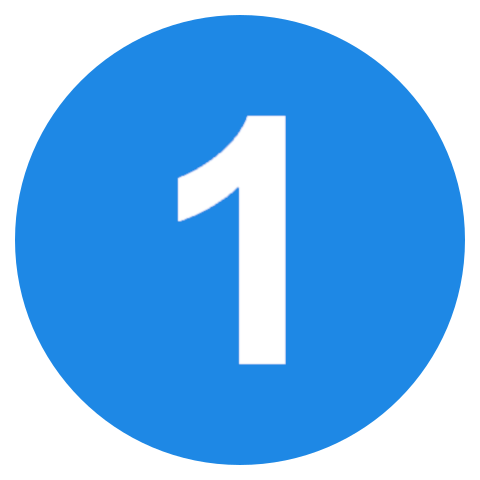
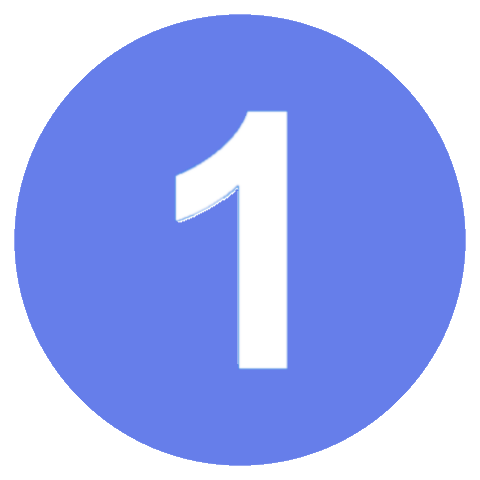
21.08.2022 Update interface and logout bug

diff --git a/flaskblog/static/home.css b/flaskblog/static/home.css
@@ -9,9 +9,11 @@ body
     font-family: sans-serif;
 }
 
+
 .rev-section
 {
     margin:auto;
+    margin-top: 1.75cm;
     padding: 0 1rem; /*1*/
     max-width: 1100px;
     text-align: center;
@@ -51,6 +53,7 @@ body
     margin: 1.75rem auto;
     width: 150px;
     height: 150px;
+    margin-bottom: 1.75cm;
 }
 
 img
@@ -86,16 +89,15 @@ img
 }
 
 .logoutBtn {
-  background-color: #0095ff;
+  background-color: #667eea;
   border: 1px solid transparent;
   border-radius: 3px;
-  box-shadow: rgba(255, 255, 255, .4) 0 1px 0 0 inset;
   box-sizing: border-box;
   color: #fff;
   cursor: pointer;
   display: inline-block;
   font-family: -apple-system,system-ui,"Times New Roman",sans-serif;
-  font-size: 13px;
+  font-size: 18px;
   font-weight: 400;
   line-height: 1.15385;
   margin: 0;
@@ -126,8 +128,8 @@ img
 }
 
 body {
-	background: linear-gradient(-45deg, #ad33ff, #23a6d5, #23d5ab);
-	background-size: 400% 400%;
+	background: linear-gradient(-45deg, #667eea, #23a6d5, #667eea);
+	background-size: 200% 300%;
 	animation: gradient 25s ease infinite;
 	height: 100vh;
 }
@@ -151,4 +153,57 @@ body {
 
 .action:hover {
   text-decoration: underline;
+}
+
+
+.button-53 {
+  background-color: #667eea;
+  border: 0 solid #FFF;
+  box-sizing: border-box;
+  color: #FFF;
+  display: flex;
+  font-family: ui-sans-serif,system-ui,-apple-system,system-ui,"Segoe UI",Roboto,"Helvetica Neue",Arial,"Noto Sans",sans-serif,"Apple Color Emoji","Segoe UI Emoji","Segoe UI Symbol","Noto Color Emoji";
+  font-size: 1rem;
+  font-weight: 700;
+  justify-content: center;
+  line-height: 1.75rem;
+  padding: .75rem 1.65rem;
+  position: relative;
+  text-align: center;
+  text-decoration: none #FFF solid;
+  text-decoration-thickness: auto;
+  width: 100%;
+  max-width: 460px;
+  position: relative;
+  cursor: pointer;
+  transform: rotate(-2deg);
+  user-select: none;
+  -webkit-user-select: none;
+  touch-action: manipulation;
+}
+
+.button-53:focus {
+  outline: 0;
+}
+
+.button-53:after {
+  content: '';
+  position: absolute;
+  border: 1px solid #FFF;
+  bottom: 4px;
+  left: 4px;
+  width: calc(100% - 1px);
+  height: calc(100% - 1px);
+}
+
+.button-53:hover:after {
+  bottom: 2px;
+  left: 2px;
+}
+
+@media (min-width: 768px) {
+  .button-53 {
+    padding: .75rem 3rem;
+    font-size: 1.25rem;
+  }
 }

diff --git a/flaskblog/templates/home.html b/flaskblog/templates/home.html
@@ -32,33 +32,30 @@
             <div class="head-task">
                 <img src="{{url_for('static', filename='images/1.png')}}" width="250px">
             </div>
-            <div class="body-task">
-                <div class="name-task"><a href="http://localhost:5000/forms" class="action">Complete forms</a></div>
-
-            </div>
+            <a href="http://localhost:5000/forms">
+                <button class="button-53" role="button">Complete forms</button>
+            </a>
         </div>
         <div class="task">
             <div class="head-task">
                 <img src="{{url_for('static', filename='images/2.png')}}" width="250px">
             </div>
-            <div class="body-task">
-                <div class="name-task"><a href="http://localhost:5000/modifydb" class="action">Modify in database</a></div>
-            </div>
+            <a href="http://localhost:5000/modifydb">
+                <button class="button-53" role="button">Modify in database</button>
+            </a>
         </div>
         <div class="task">
             <div class="head-task">
                 <img src="{{url_for('static', filename='images/3.png')}}" width="250px">
             </div>
-            <div class="body-task">
-
-                <div class="name-task"><a href="http://localhost:5000/checkdb" class="action">Check database</a></div>
-
-            </div>
+             <a href="http://localhost:5000/checkdb">
+                <button class="button-53" role="button">Check database</button>
+            </a>
         </div>
     </div>
 </div>
 
-<a href="http://localhost:5000/login">
+<a href="http://localhost:5000/logout">
     <button class="logoutBtn">Logout</button>
 </a>
 </body>

diff --git a/flaskblog/templates/login.html b/flaskblog/templates/login.html
@@ -8,14 +8,11 @@
     <!-- Bootstrap CSS -->
     <link rel="stylesheet" href="https://maxcdn.bootstrapcdn.com/bootstrap/4.0.0/css/bootstrap.min.css"
           integrity="sha384-Gn5384xqQ1aoWXA+058RXPxPg6fy4IWvTNh0E263XmFcJlSAwiGgFAW/dAiS6JXm" crossorigin="anonymous">
-    <link rel="stylesheet" type="text/css" href="{{ url_for('static', filename='main.css') }}">
-
+    <link rel="stylesheet" type="text/css" href="{{ url_for('static', filename='login.css') }}">
 </head>
 <body>
 
 <main role="main" class="container">
-    <div class="row">
-        <div class="col-md-8">
             {% with messages = get_flashed_messages(with_categories=true) %}
             {% if messages %}
             {% for category, message in messages %}
@@ -44,7 +41,6 @@
                             {{ form.email(class="form-control form-control-lg") }}
                             {% endif %}
                         </div>
-
 
                         <div class="form-group">
                             {{ form.password.label(class="form-control-label") }}
@@ -75,9 +71,7 @@
                 </form>
             </div>
 
-        </div>
 
-    </div>
 </main>
 </body>
 </html>

diff --git a/flaskblog/static/login.css b/flaskblog/static/login.css
@@ -1,7 +1,10 @@
-body {
-  background: #fafafa;
-  color: #333333;
-  margin-top: 5rem;
+body
+{
+    font-family: "Inter", sans-serif;
+	background: linear-gradient(-45deg, #667eea, #23a6d5, #667eea);
+	background-size: 200% 300%;
+	animation: gradient 25s ease infinite;
+	margin-top: 8.5rem;
 }
 
 h1, h2, h3, h4, h5, h6 {
@@ -77,4 +80,8 @@ a.article-title:hover {
 
 .account-heading {
   font-size: 2.5rem;
+}
+
+.container {
+  width: 40%;
 }

diff --git a/flaskblog/templates/forms.html b/flaskblog/templates/forms.html
@@ -14,7 +14,7 @@
             <h1>Upload excel</h1>
         </div>
 
-        <div class="mt-2 flex flex-col items-center">
+        <div class="mt-1.5 flex flex-col items-center">
             <div class="w-full flex-1 mt-2">
                 <div class="flex flex-col items-center">
                     <form method="POST" action="http://localhost:5000/uploader" enctype="multipart/form-data">

diff --git a/flaskblog/static/forms.css b/flaskblog/static/forms.css
@@ -1,6 +1,10 @@
-.body
+body
 {
     font-family: "Inter", sans-serif;
+	background: linear-gradient(-45deg, #667eea, #23a6d5, #667eea);
+	background-size: 200% 300%;
+	animation: gradient 25s ease infinite;
+	height: 100vh;
 }
 
 label{

diff --git a/flaskblog/routes.py b/flaskblog/routes.py
@@ -67,7 +67,7 @@ def checkdb():
 @app.route("/logout")
 def logout():
     logout_user()
-    return redirect(url_for('/'))
+    return redirect(url_for('login'))
 
 @app.route('/uploader', methods=['GET', 'POST'])
 def uploader():
